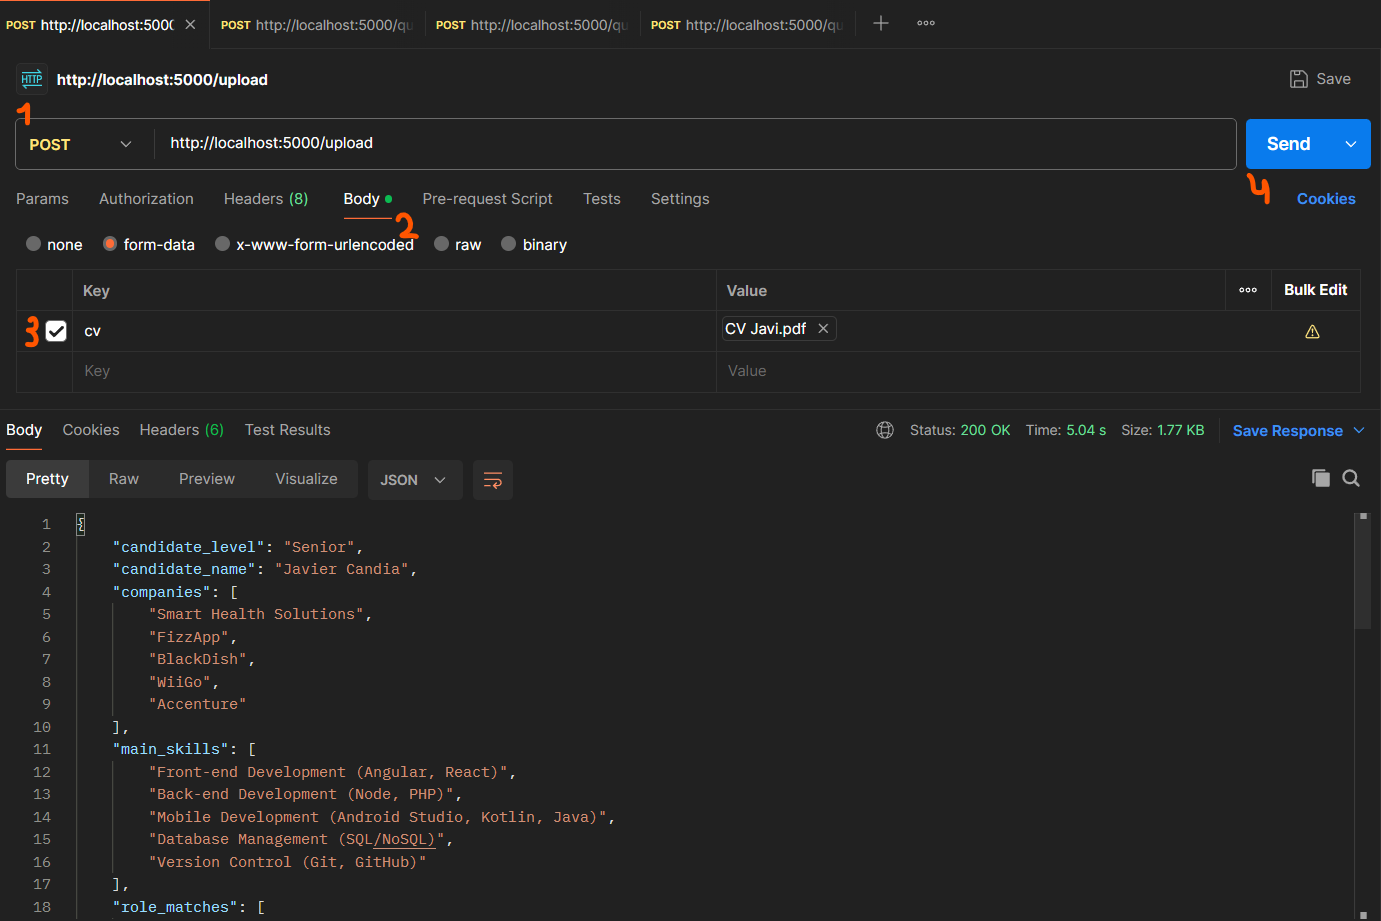
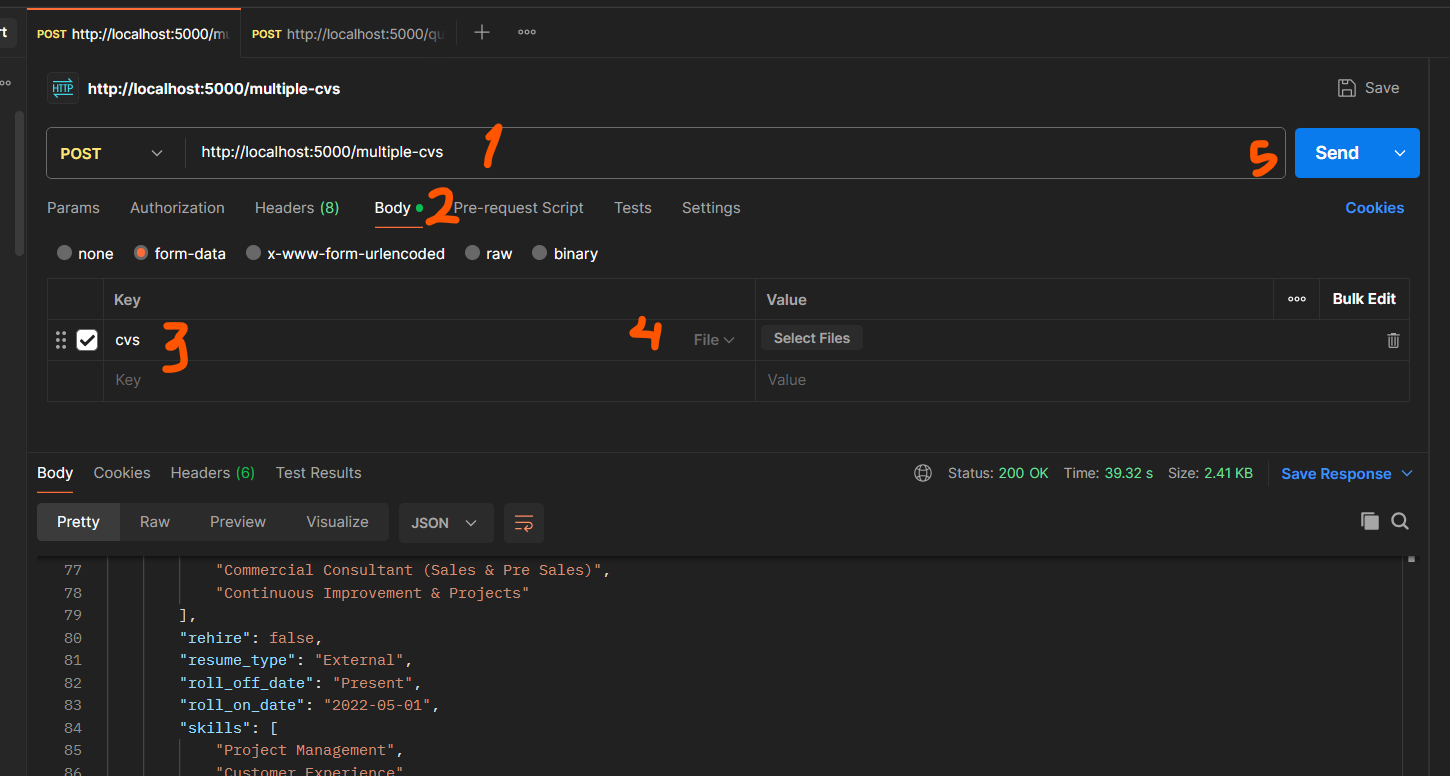
README enhancement

diff --git a/README.md b/README.md
@@ -46,31 +46,35 @@ brew install redis
 pip install pipenv
 ```
 
-### Step 5: Install dependencies and activate the virtual environment with Pipenv
+### Step 5: Open your proyect to install dependencies and activate the virtual environment with Pipenv
 
 ```bash
-pipenv install
 pipenv shell
-```
-
-### Step 6: Run the application
-
-Run the application using the following command:
-
-```bash
-python app.py
+pipenv install
 ```
 
 ## Usage
 
-### OpenAI API KEY
-1. Rename the ``.env.example`` file to ``.env``.
+### Modify you .env
+1. Clone the ``.env.example`` file and rename the copy to ``.env``.
 2. Open the ``.env`` file and paste your OpenAI API Key into the file. It should look like this:
 ```bash
-OPENAI_API_KEY=your_openai_api_key
-REDIS_HOST=localhost
-REDIS_PORT=6379
+OPENAI_API_KEY=openai-api-key
+REDIS_HOST=localhost 
+REDIS_PORT=6379 
 REDIS_DB=0
+AZURE_SEARCH_ENDPOINT=azure-search-endpoint
+AZURE_SEARCH_API_KEY=azure-api-key
+AZURE_SEARCH_INDEX_NAME=azure-index-name
+DOWNLOAD_PATH="C:\\Users\\user_name\\Downloads\\"
+```
+
+### Run the application
+
+Run this command inside your project (where you ran ``pipenv shell``)
+
+```bash
+python app.py
 ```
 
 ### Manage Redis Server
@@ -78,11 +82,6 @@ REDIS_DB=0
 Start Server
 ```bash
 redis-server
-```
-
-Stop Server
-```bash
-redis-cli shutdown
 ```
 
 Verify Server
@@ -95,10 +94,16 @@ Check Redis Database
 redis-cli scan 0
 ```
 
+Stop Server
+```bash
+redis-cli shutdown
+```
+
 ### Scan your PDF using Postman or a similar tool
-1. Select a POST request to http://localhost:5000/upload.
+1. Create a POST request to http://localhost:5000/multiple-cvs.
 2. Click on the Body tab.
-3. Select "form-data" and add a field named "cv" with the file.
-4. Click on "Send" and let it happen!
+3. Click on "form-data" and add a field named "cvs" 
+4. Select "File" from the dropdown and then "Select Files" to upload your CVs
+5. Click on "Send" and let it happen!
 
 ![alt text](assets/pdf-upload.png)
